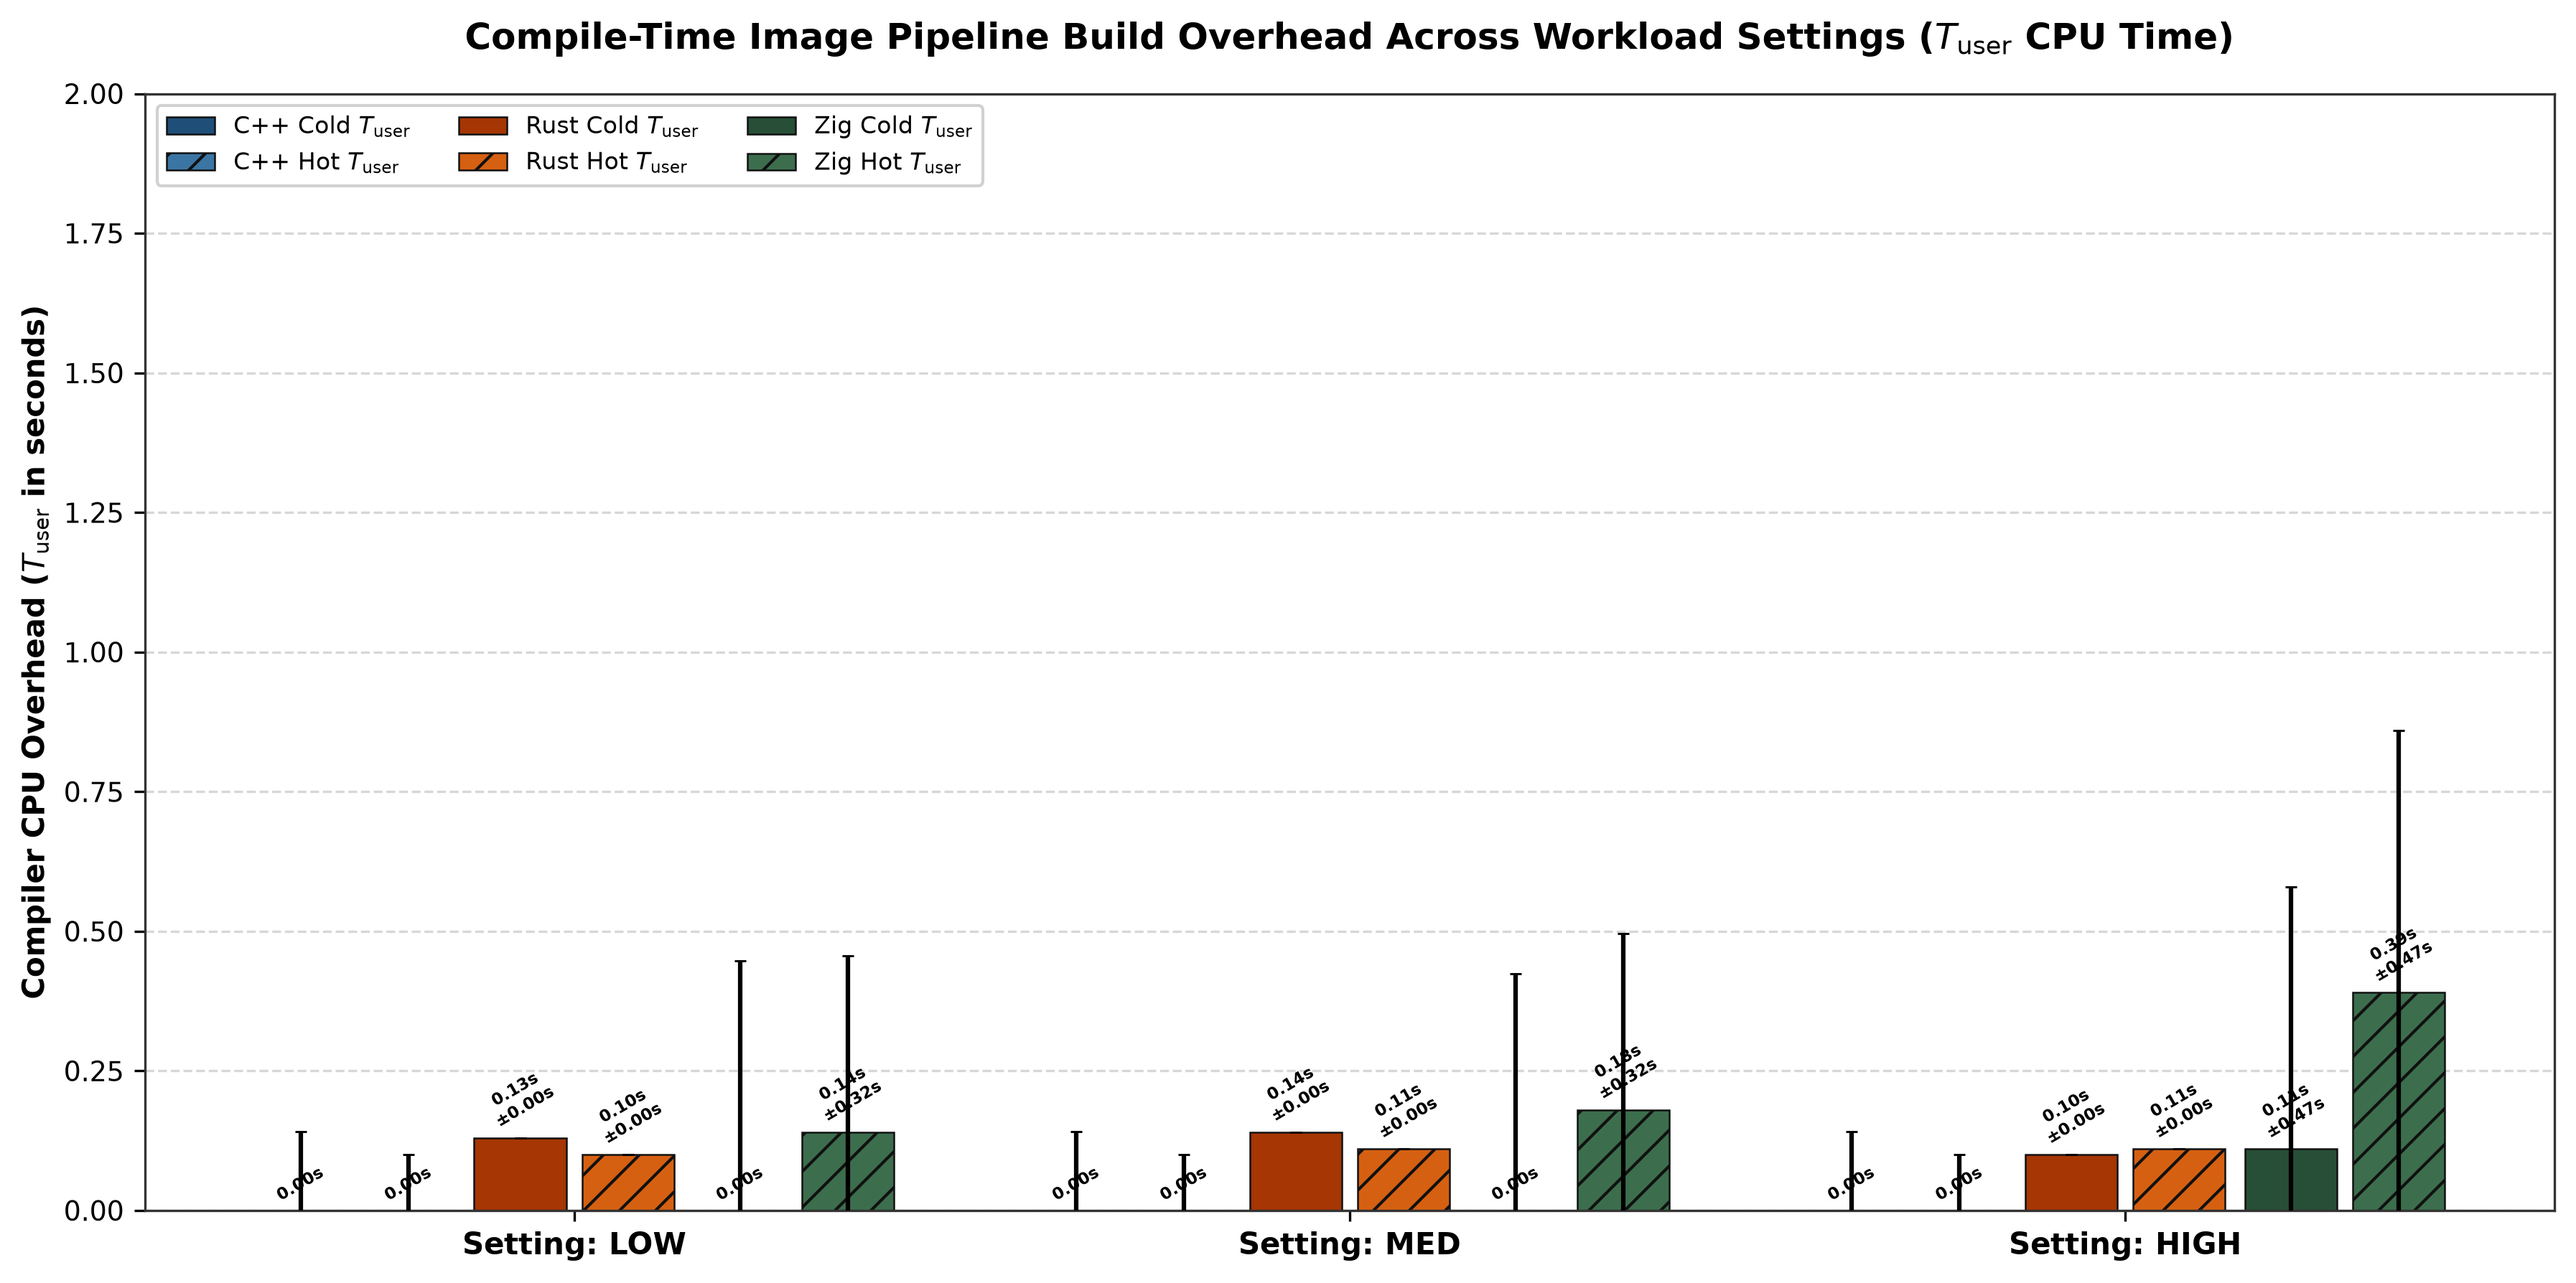
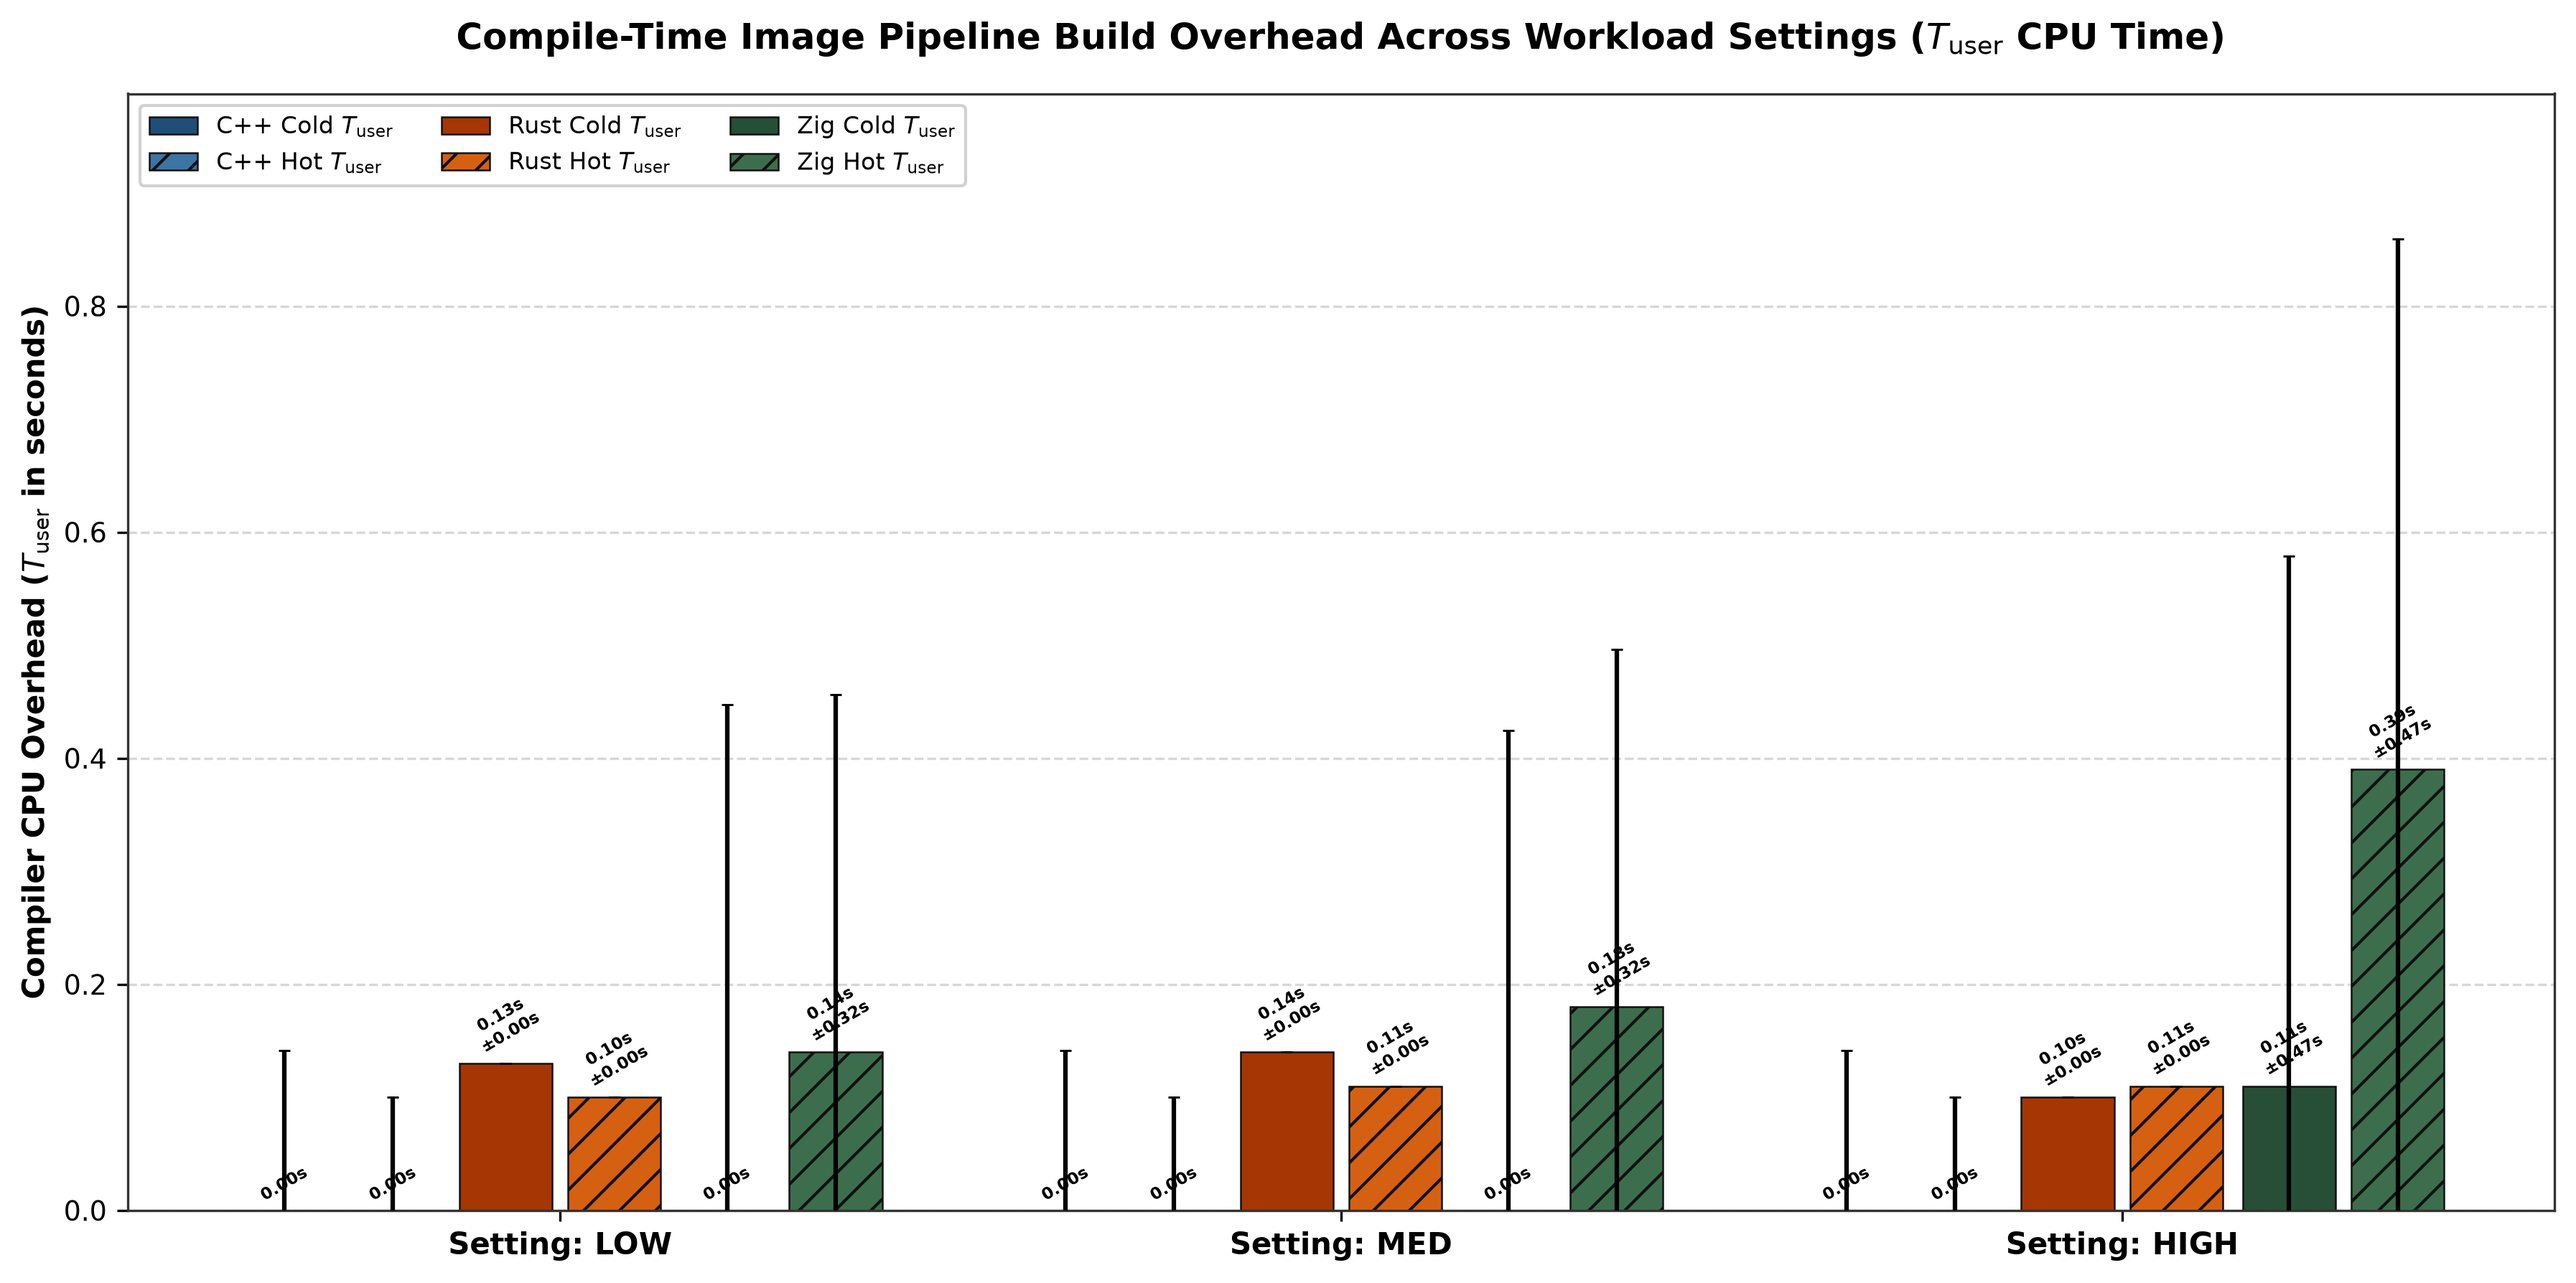
im plots

diff --git a/plot/plot_image_build.py b/plot/plot_image_build.py
@@ -194,7 +194,7 @@ def plot_image_pipeline_grouped(
     ax.set_axisbelow(True)
 
     # Set bottom Y-limit strictly at 0 for a clean baseline
-    ax.set_ylim(0.0, max(global_max_y * 1.25, 2.0))
+    ax.set_ylim(0.0, global_max_y * 1.15)
 
     # Deduplicated legend
     handles, labels = ax.get_legend_handles_labels()
